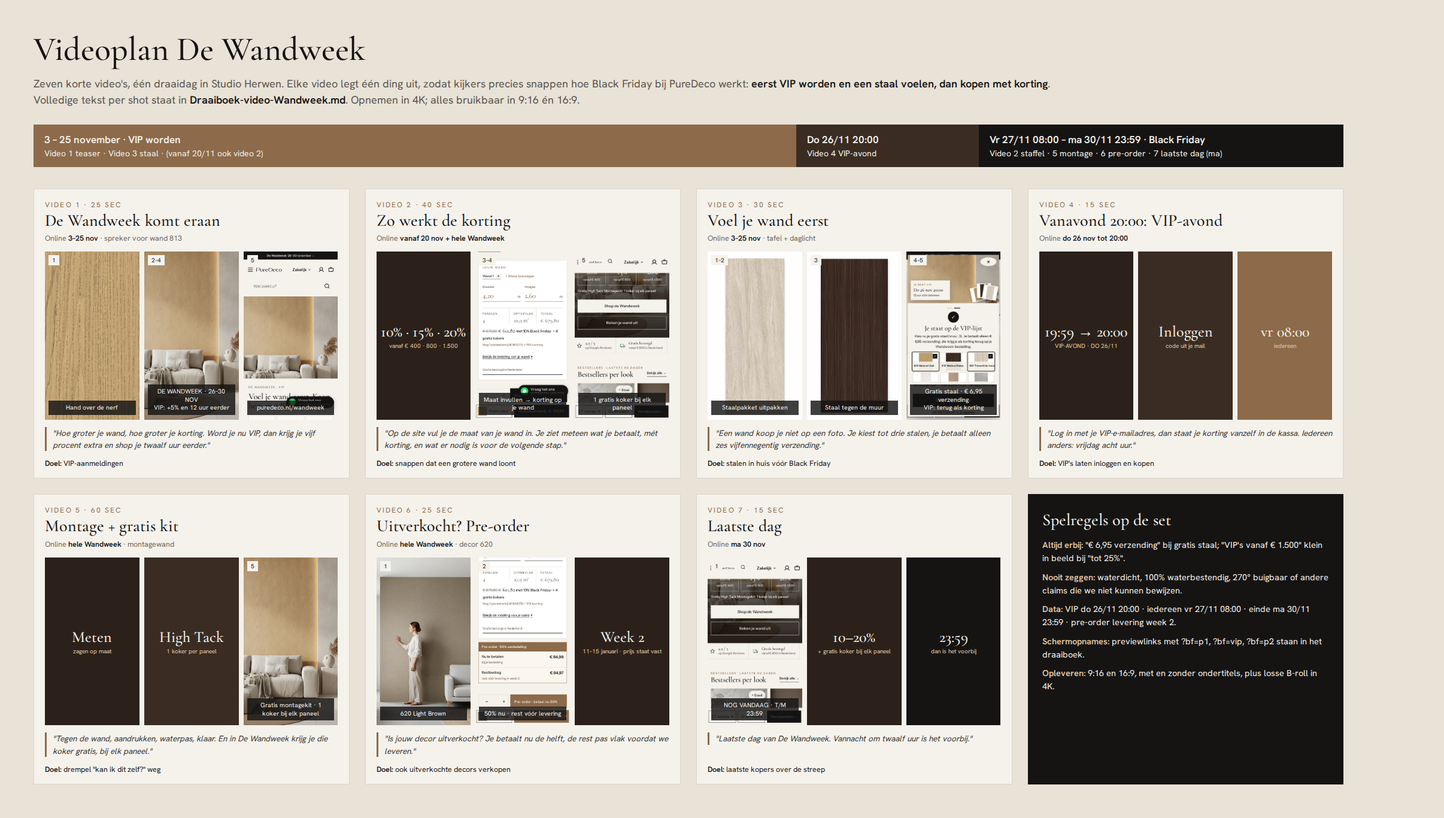
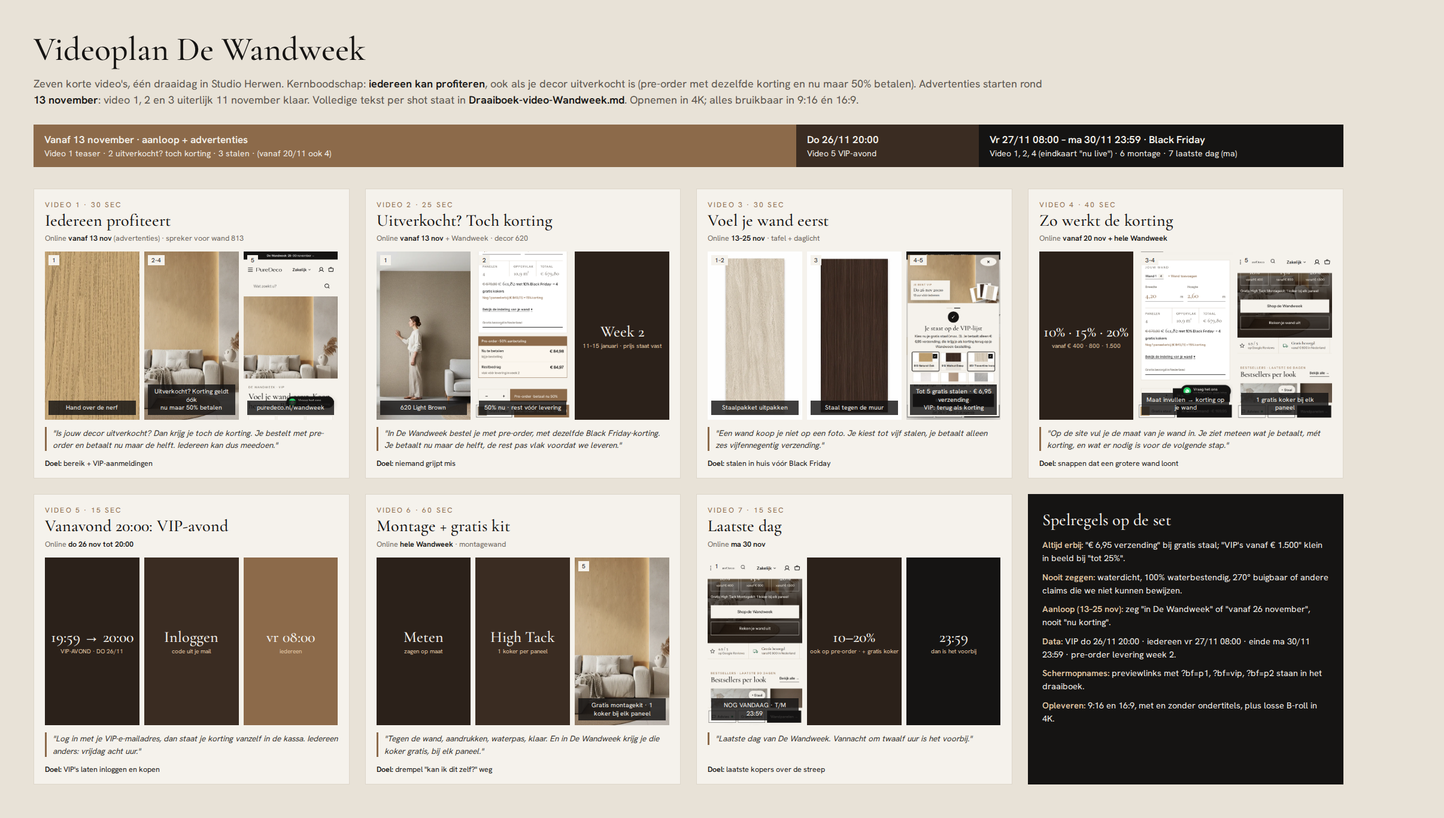
Pop-up: tot 5 stalen; videoplan: pre-order-boodschap in de aanloop, advertenties vanaf 13 november
Claude-Session: https://claude.ai/code/session_01Tr9HDAqx5rbsuHBhnEqEEG

diff --git a/docs/ontwerp-puredeco-finish/black-friday/video/video-artboard.html b/docs/ontwerp-puredeco-finish/black-friday/video/video-artboard.html
@@ -29,26 +29,44 @@ h1{font-family:'Cormorant Garamond',serif;font-weight:500;font-size:56px}
 .rules b{color:#E3C9A6}
 </style></head><body>
 <h1>Videoplan De Wandweek</h1>
-<p class="lead">Zeven korte video's, één draaidag in Studio Herwen. Elke video legt één ding uit, zodat kijkers precies snappen hoe Black Friday bij PureDeco werkt: <b>eerst VIP worden en een staal voelen, dan kopen met korting</b>. Volledige tekst per shot staat in <b>Draaiboek-video-Wandweek.md</b>. Opnemen in 4K; alles bruikbaar in 9:16 én 16:9.</p>
+<p class="lead">Zeven korte video's, één draaidag in Studio Herwen. Kernboodschap: <b>iedereen kan profiteren</b>, ook als je decor uitverkocht is (pre-order met dezelfde korting en nu maar 50% betalen). Advertenties starten rond <b>13 november</b>: video 1, 2 en 3 uiterlijk 11 november klaar. Volledige tekst per shot staat in <b>Draaiboek-video-Wandweek.md</b>. Opnemen in 4K; alles bruikbaar in 9:16 én 16:9.</p>
 
 <div class="tl">
-  <div class="t1"><b>3 – 25 november · VIP worden</b>Video 1 teaser · Video 3 staal · (vanaf 20/11 ook video 2)</div>
-  <div class="t2"><b>Do 26/11 20:00</b>Video 4 VIP-avond</div>
-  <div class="t3"><b>Vr 27/11 08:00 – ma 30/11 23:59 · Black Friday</b>Video 2 staffel · 5 montage · 6 pre-order · 7 laatste dag (ma)</div>
+  <div class="t1"><b>Vanaf 13 november · aanloop + advertenties</b>Video 1 teaser · 2 uitverkocht? toch korting · 3 stalen · (vanaf 20/11 ook 4)</div>
+  <div class="t2"><b>Do 26/11 20:00</b>Video 5 VIP-avond</div>
+  <div class="t3"><b>Vr 27/11 08:00 – ma 30/11 23:59 · Black Friday</b>Video 1, 2, 4 (eindkaart "nu live") · 6 montage · 7 laatste dag (ma)</div>
 </div>
 
 <div class="grid">
 
-<div class="card"><p class="num">Video 1 · 25 sec</p><p class="ttl">De Wandweek komt eraan</p><p class="meta">Online <b>3–25 nov</b> · spreker voor wand 813</p>
+<div class="card"><p class="num">Video 1 · 30 sec</p><p class="ttl">Iedereen profiteert</p><p class="meta">Online <b>vanaf 13 nov</b> (advertenties) · spreker voor wand 813</p>
 <div class="frames">
 <div class="fr" style="background-image:url('https://cdn.shopify.com/s/files/1/0940/4075/2394/files/bamboepanelen-hout-813-natural-oak-detail.jpg?v=1793440327&width=500')"><span class="n">1</span><span class="ov">Hand over de nerf</span></div>
-<div class="fr" style="background-image:url('https://cdn.shopify.com/s/files/1/0940/4075/2394/files/generated_2Fshopify_3Af9yvx9-zm.myshopify.com_2F1793565871079_0.png?v=1793565889&width=500')"><span class="n">2–4</span><span class="ov">DE WANDWEEK · 26–30 NOV<br>VIP: +5% en 12 uur eerder</span></div>
+<div class="fr" style="background-image:url('https://cdn.shopify.com/s/files/1/0940/4075/2394/files/generated_2Fshopify_3Af9yvx9-zm.myshopify.com_2F1793565871079_0.png?v=1793565889&width=500')"><span class="n">2–4</span><span class="ov">Uitverkocht? Korting geldt óók<br>nu maar 50% betalen</span></div>
 <div class="fr" style="background-image:url('vip-m-p1.png');background-position:top"><span class="n">5</span><span class="ov">puredeco.nl/wandweek</span></div>
 </div>
-<p class="say">"Hoe groter je wand, hoe groter je korting. Word je nu VIP, dan krijg je vijf procent extra en shop je twaalf uur eerder."</p>
-<p class="goal"><b>Doel:</b> VIP-aanmeldingen</p></div>
+<p class="say">"Is jouw decor uitverkocht? Dan krijg je toch de korting. Je bestelt met pre-order en betaalt nu maar de helft. Iedereen kan dus meedoen."</p>
+<p class="goal"><b>Doel:</b> bereik + VIP-aanmeldingen</p></div>
 
-<div class="card"><p class="num">Video 2 · 40 sec</p><p class="ttl">Zo werkt de korting</p><p class="meta">Online <b>vanaf 20 nov + hele Wandweek</b></p>
+<div class="card"><p class="num">Video 2 · 25 sec</p><p class="ttl">Uitverkocht? Toch korting</p><p class="meta">Online <b>vanaf 13 nov</b> + Wandweek · decor 620</p>
+<div class="frames">
+<div class="fr" style="background-image:url('https://cdn.shopify.com/s/files/1/0940/4075/2394/files/generated_2Fshopify_3Af9yvx9-zm.myshopify.com_2F1776693455240_0.png?v=1776775314&width=500')"><span class="n">1</span><span class="ov">620 Light Brown</span></div>
+<div class="fr" style="background-image:url('pdp-m-p2-pre.png');background-position:center 70%"><span class="n">2</span><span class="ov">50% nu · rest vóór levering</span></div>
+<div class="fr g"><b>Week 2</b><span>11–15 januari · prijs staat vast</span></div>
+</div>
+<p class="say">"In De Wandweek bestel je met pre-order, met dezelfde Black Friday-korting. Je betaalt nu maar de helft, de rest pas vlak voordat we leveren."</p>
+<p class="goal"><b>Doel:</b> niemand grijpt mis</p></div>
+
+<div class="card"><p class="num">Video 3 · 30 sec</p><p class="ttl">Voel je wand eerst</p><p class="meta">Online <b>13–25 nov</b> · tafel + daglicht</p>
+<div class="frames">
+<div class="fr" style="background-image:url('https://cdn.shopify.com/s/files/1/0940/4075/2394/files/wandpaneel-travertine-ivory-851.png?v=1790065039&width=500')"><span class="n">1–2</span><span class="ov">Staalpakket uitpakken</span></div>
+<div class="fr" style="background-image:url('https://cdn.shopify.com/s/files/1/0940/4075/2394/files/wandpaneel-812-walnut-deep-houtlook.jpg?v=1793107446&width=500')"><span class="n">3</span><span class="ov">Staal tegen de muur</span></div>
+<div class="fr" style="background-image:url('popup-mobiel-stap2.png');background-position:center 70%"><span class="n">4–5</span><span class="ov">Tot 5 gratis stalen · € 6,95 verzending<br>VIP: terug als korting</span></div>
+</div>
+<p class="say">"Een wand koop je niet op een foto. Je kiest tot vijf stalen, je betaalt alleen zes vijfennegentig verzending."</p>
+<p class="goal"><b>Doel:</b> stalen in huis vóór Black Friday</p></div>
+
+<div class="card"><p class="num">Video 4 · 40 sec</p><p class="ttl">Zo werkt de korting</p><p class="meta">Online <b>vanaf 20 nov + hele Wandweek</b></p>
 <div class="frames">
 <div class="fr g"><b>10% · 15% · 20%</b><span>vanaf € 400 · 800 · 1.500</span></div>
 <div class="fr" style="background-image:url('calculator-fase2.png');background-position:center 40%"><span class="n">3–4</span><span class="ov">Maat invullen → korting op je wand</span></div>
@@ -57,16 +75,7 @@ h1{font-family:'Cormorant Garamond',serif;font-weight:500;font-size:56px}
 <p class="say">"Op de site vul je de maat van je wand in. Je ziet meteen wat je betaalt, mét korting, en wat er nodig is voor de volgende stap."</p>
 <p class="goal"><b>Doel:</b> snappen dat een grotere wand loont</p></div>
 
-<div class="card"><p class="num">Video 3 · 30 sec</p><p class="ttl">Voel je wand eerst</p><p class="meta">Online <b>3–25 nov</b> · tafel + daglicht</p>
-<div class="frames">
-<div class="fr" style="background-image:url('https://cdn.shopify.com/s/files/1/0940/4075/2394/files/wandpaneel-travertine-ivory-851.png?v=1790065039&width=500')"><span class="n">1–2</span><span class="ov">Staalpakket uitpakken</span></div>
-<div class="fr" style="background-image:url('https://cdn.shopify.com/s/files/1/0940/4075/2394/files/wandpaneel-812-walnut-deep-houtlook.jpg?v=1793107446&width=500')"><span class="n">3</span><span class="ov">Staal tegen de muur</span></div>
-<div class="fr" style="background-image:url('popup-mobiel-stap2.png');background-position:center 70%"><span class="n">4–5</span><span class="ov">Gratis staal · € 6,95 verzending<br>VIP: terug als korting</span></div>
-</div>
-<p class="say">"Een wand koop je niet op een foto. Je kiest tot drie stalen, je betaalt alleen zes vijfennegentig verzending."</p>
-<p class="goal"><b>Doel:</b> stalen in huis vóór Black Friday</p></div>
-
-<div class="card"><p class="num">Video 4 · 15 sec</p><p class="ttl">Vanavond 20:00: VIP-avond</p><p class="meta">Online <b>do 26 nov tot 20:00</b></p>
+<div class="card"><p class="num">Video 5 · 15 sec</p><p class="ttl">Vanavond 20:00: VIP-avond</p><p class="meta">Online <b>do 26 nov tot 20:00</b></p>
 <div class="frames">
 <div class="fr g"><b>19:59 → 20:00</b><span>VIP-AVOND · DO 26/11</span></div>
 <div class="fr g" style="background:#3A2C22"><b>Inloggen</b><span>code uit je mail</span></div>
@@ -75,7 +84,7 @@ h1{font-family:'Cormorant Garamond',serif;font-weight:500;font-size:56px}
 <p class="say">"Log in met je VIP-e-mailadres, dan staat je korting vanzelf in de kassa. Iedereen anders: vrijdag acht uur."</p>
 <p class="goal"><b>Doel:</b> VIP's laten inloggen en kopen</p></div>
 
-<div class="card"><p class="num">Video 5 · 60 sec</p><p class="ttl">Montage + gratis kit</p><p class="meta">Online <b>hele Wandweek</b> · montagewand</p>
+<div class="card"><p class="num">Video 6 · 60 sec</p><p class="ttl">Montage + gratis kit</p><p class="meta">Online <b>hele Wandweek</b> · montagewand</p>
 <div class="frames">
 <div class="fr g"><b>Meten</b><span>zagen op maat</span></div>
 <div class="fr g" style="background:#3A2C22"><b>High Tack</b><span>1 koker per paneel</span></div>
@@ -84,19 +93,10 @@ h1{font-family:'Cormorant Garamond',serif;font-weight:500;font-size:56px}
 <p class="say">"Tegen de wand, aandrukken, waterpas, klaar. En in De Wandweek krijg je die koker gratis, bij elk paneel."</p>
 <p class="goal"><b>Doel:</b> drempel "kan ik dit zelf?" weg</p></div>
 
-<div class="card"><p class="num">Video 6 · 25 sec</p><p class="ttl">Uitverkocht? Pre-order</p><p class="meta">Online <b>hele Wandweek</b> · decor 620</p>
-<div class="frames">
-<div class="fr" style="background-image:url('https://cdn.shopify.com/s/files/1/0940/4075/2394/files/generated_2Fshopify_3Af9yvx9-zm.myshopify.com_2F1776693455240_0.png?v=1776775314&width=500')"><span class="n">1</span><span class="ov">620 Light Brown</span></div>
-<div class="fr" style="background-image:url('pdp-m-p2-pre.png');background-position:center 70%"><span class="n">2</span><span class="ov">50% nu · rest vóór levering</span></div>
-<div class="fr g"><b>Week 2</b><span>11–15 januari · prijs staat vast</span></div>
-</div>
-<p class="say">"Is jouw decor uitverkocht? Je betaalt nu de helft, de rest pas vlak voordat we leveren."</p>
-<p class="goal"><b>Doel:</b> ook uitverkochte decors verkopen</p></div>
-
 <div class="card"><p class="num">Video 7 · 15 sec</p><p class="ttl">Laatste dag</p><p class="meta">Online <b>ma 30 nov</b></p>
 <div class="frames">
 <div class="fr" style="background-image:url('home-m-p2.png');background-position:center 45%"><span class="n">1</span><span class="ov">NOG VANDAAG · T/M 23:59</span></div>
-<div class="fr g"><b>10–20%</b><span>+ gratis koker bij elk paneel</span></div>
+<div class="fr g"><b>10–20%</b><span>ook op pre-order · + gratis koker</span></div>
 <div class="fr g" style="background:#151413"><b>23:59</b><span>dan is het voorbij</span></div>
 </div>
 <p class="say">"Laatste dag van De Wandweek. Vannacht om twaalf uur is het voorbij."</p>
@@ -106,6 +106,7 @@ h1{font-family:'Cormorant Garamond',serif;font-weight:500;font-size:56px}
 <h3>Spelregels op de set</h3>
 <div><b>Altijd erbij:</b> "€ 6,95 verzending" bij gratis staal; "VIP's vanaf € 1.500" klein in beeld bij "tot 25%".</div>
 <div><b>Nooit zeggen:</b> waterdicht, 100% waterbestendig, 270° buigbaar of andere claims die we niet kunnen bewijzen.</div>
+<div><b>Aanloop (13–25 nov):</b> zeg "in De Wandweek" of "vanaf 26 november", nooit "nu korting".</div>
 <div><b>Data:</b> VIP do 26/11 20:00 · iedereen vr 27/11 08:00 · einde ma 30/11 23:59 · pre-order levering week 2.</div>
 <div><b>Schermopnames:</b> previewlinks met ?bf=p1, ?bf=vip, ?bf=p2 staan in het draaiboek.</div>
 <div><b>Opleveren:</b> 9:16 en 16:9, met en zonder ondertitels, plus losse B-roll in 4K.</div>

diff --git a/docs/ontwerp-puredeco-finish/black-friday/popup-artboard.html b/docs/ontwerp-puredeco-finish/black-friday/popup-artboard.html
@@ -139,7 +139,7 @@ hr{border:0;border-top:1px solid #d4ccbf;margin:40px 0 30px}
         <div class="dots"><i></i><i class="on"></i></div>
         <div class="ok">✓</div>
         <p class="h" style="font-size:34px">Je staat op de VIP-lijst</p>
-        <p class="sub">Kies nu je gratis staal (max. 3). Je betaalt alleen € 6,95 verzending; die krijg je als korting terug op je Wandweek-bestelling.</p>
+        <p class="sub">Kies nu je gratis stalen (max. 5). Je betaalt alleen € 6,95 verzending; die krijg je als korting terug op je Wandweek-bestelling.</p>
         <div class="sw">
           <div class="on" style="background-image:url('https://cdn.shopify.com/s/files/1/0940/4075/2394/files/bamboepanelen-hout-813-natural-oak-packshot.jpg?v=1793440327&width=300')"><span>813 Natural Oak</span></div>
           <div style="background-image:url('https://cdn.shopify.com/s/files/1/0940/4075/2394/files/wandpaneel-812-walnut-deep-houtlook.jpg?v=1793107446&width=300')"><span>812 Walnut Deep</span></div>

diff --git a/docs/ontwerp-puredeco-finish/black-friday/video/Draaiboek-video-Wandweek.md b/docs/ontwerp-puredeco-finish/black-friday/video/Draaiboek-video-Wandweek.md
@@ -1,15 +1,19 @@
 # Draaiboek video · De Wandweek (Black Friday 2026)
 
-Voor de videograaf, deze week. Doel: in korte video's laten zien **hoe Black Friday bij PureDeco werkt**, zodat kijkers het in één keer snappen en iets gaan doen: VIP worden, een staal bestellen of op 26/27 november kopen.
+Voor de videograaf, deze week. Doel: in korte video's laten zien **hoe Black Friday bij PureDeco werkt**, zodat kijkers het in één keer snappen en iets gaan doen: VIP worden, stalen bestellen of in de Wandweek kopen.
+
+**Kernboodschap: iedereen kan profiteren.** Ook als je decor uitverkocht is: dan bestel je met pre-order, krijg je dezelfde korting en betaal je nu maar 50%.
+
+**Advertenties starten rond 13 november.** De aanloopvideo's (1, 2 en 3) moeten uiterlijk **woensdag 11 november** klaar zijn, zodat ze op tijd zijn goedgekeurd door Meta en Google.
 
 ## De actie in één alinea (dit moet iedereen op de set weten)
 
-- **3 tot en met 25 november:** word VIP op puredeco.nl/pages/wandweek. Je kiest een gratis staal (je betaalt € 6,95 verzending; die krijg je als VIP terug als korting).
+- **Nu tot en met 25 november:** word VIP op puredeco.nl/pages/wandweek. Je kiest tot 5 gratis stalen (je betaalt € 6,95 verzending; die krijg je als VIP terug als korting).
 - **Donderdag 26 november 20:00:** VIP-avond. VIP's shoppen 12 uur eerder (inloggen met hun VIP-e-mailadres).
 - **Vrijdag 27 november 08:00 tot en met maandag 30 november 23:59:** Black Friday voor iedereen.
 - **Korting:** hoe groter je wand, hoe groter je korting. 10% vanaf € 400, 15% vanaf € 800, 20% vanaf € 1.500. VIP's krijgen 5% extra, dus tot 25%.
 - **Montagekit:** 1 gratis High Tack-koker bij elk paneel.
-- **Uitverkocht?** Dan pre-order met korting: je betaalt nu 50%, de rest vlak vóór levering. Levering week 2 (11–15 januari).
+- **Uitverkocht? Dan geldt de korting óók.** Je bestelt met pre-order, krijgt dezelfde Black Friday-korting en betaalt nu maar 50%. De rest betaal je vlak vóór levering. Levering week 2 (11–15 januari).
 - **Gratis bezorgd** in Nederland vanaf € 600.
 
 ## Wat we NIET zeggen
@@ -17,89 +21,117 @@ Voor de videograaf, deze week. Doel: in korte video's laten zien **hoe Black Fri
 - Geen "waterdicht", "100% waterbestendig", "270° buigbaar" of andere claims die we niet kunnen onderbouwen.
 - Geen "gratis staal" zonder dat de € 6,95 verzending erbij gezegd of getoond wordt.
 - Geen "tot 25%" zonder dat in beeld staat dat het voor VIP's vanaf € 1.500 is (kleine tekst onderin is genoeg).
+- Geen "nu al korting" in de aanloop: de korting geldt pas vanaf 26/27 november. Wel: "vanaf 26 november", "in De Wandweek".
 - Geen data of percentages die afwijken van hierboven.
+
+## Wanneer welke video online
+
+| Periode | Video's |
+|---|---|
+| **Vanaf 13 november (aanloop, advertenties)** | 1 Teaser · 2 Uitverkocht? Toch korting · 3 Voel je wand eerst |
+| **Vanaf 20 november** | 4 Zo werkt de korting (erbij) |
+| **Do 26 november** | 5 VIP-avond |
+| **Vr 27 t/m ma 30 november** | 1, 2, 4 (aangepaste eindkaart: "nu live") · 6 Montage + gratis kit |
+| **Ma 30 november** | 7 Laatste dag |
 
 ## Formaten
 
-- Opnemen in **4K, 25 fps**. Alles bruikbaar maken in **9:16** (Reels, TikTok, Stories) én **16:9** (YouTube, website). Kader daarom ruim: belangrijke dingen in het midden.
+- Opnemen in **4K, 25 fps**. Alles bruikbaar maken in **9:16** (Reels, TikTok, Stories) én **16:9** (YouTube, website), plus **4:5** voor Meta-feedadvertenties. Kader ruim: belangrijke dingen in het midden.
 - Geluid: dasspeldmicrofoon voor de spreker, plus losse sfeergeluiden (paneel neerleggen, koker openklikken).
 - Ondertiteling bij elke video (de meeste mensen kijken zonder geluid).
+- Advertentievideo's: **de boodschap in de eerste 3 seconden** (eerste shot met tekst in beeld).
 
 ## Locatie en planning (één draaidag)
 
 | Tijd | Waar | Wat |
 |---|---|---|
 | 09:00 | Studio Herwen | Opbouw, licht. Wand 813 Natural Oak als hoofdbeeld (veel voorraad). |
-| 09:30 | Studio, wand 813 | Video 1, 2 en 7 (spreker voor de wand) |
-| 11:00 | Studio, tafel | Video 3: stalen uitpakken, close-ups |
-| 12:00 | Pauze | |
-| 12:30 | Studio, montagewand | Video 5: kit en montage in 60 seconden |
-| 14:00 | Studio, bureau | Video 4 en 6: telefoon met de site (schermopnames) |
-| 15:00 | Overal | B-roll-lijst afwerken |
+| 09:30 | Studio, wand 813 | Video 1, 4 en 7 (spreker voor de wand) |
+| 10:45 | Studio, wand 620 Light Brown (nu op pre-order) | Video 2 (pre-order) |
+| 11:30 | Studio, tafel + raam | Video 3: stalen uitpakken, close-ups in daglicht |
+| 12:30 | Pauze | |
+| 13:00 | Studio, montagewand | Video 6: kit en montage in 60 seconden |
+| 14:30 | Studio, bureau | Video 5 + schermopnames voor alle video's |
+| 15:30 | Overal | B-roll-lijst afwerken |
 
 ## Schermopnames van de site
 
 Film de telefoon met de echte site, of neem het scherm op. Zolang het nieuwe thema nog niet live staat, gebruik je deze previewlinks (ze tonen precies hoe de site er in elke fase uitziet):
 
-- Fase 1 (VIP worden): `https://puredeco.nl/?preview_theme_id=196045603082&bf=p1`
+- Aanloop (VIP worden): `https://puredeco.nl/?preview_theme_id=196045603082&bf=p1`
 - VIP-avond: `https://puredeco.nl/?preview_theme_id=196045603082&bf=vip`
 - Black Friday: `https://puredeco.nl/?preview_theme_id=196045603082&bf=p2`
 - Productpagina met calculator: `https://puredeco.nl/products/813-hout-natural-oak?preview_theme_id=196045603082&bf=p2`
+- Pre-order met 50% aanbetaling: `https://puredeco.nl/products/620-japanse-stof-japaneses-style-brown?preview_theme_id=196045603082&bf=p2`
 - VIP-pagina: `https://puredeco.nl/pages/wandweek?preview_theme_id=196045603082&bf=p1`
 
 Tip: haal de preview-balk onderin weg voor de opname, of snij hem weg in de montage.
 
 ---
 
-## Video 1 · "De Wandweek komt eraan" (teaser, 25 sec)
+## Video 1 · "Iedereen profiteert" (teaser, 30 sec)
 
-**Wanneer online:** 3 november t/m 25 november. **Doel:** VIP-aanmeldingen.
-
-| # | Beeld | Gesproken tekst | Tekst in beeld |
-|---|---|---|---|
-| 1 | Close-up hand over de nerf van 813 Natural Oak, licht van opzij | (geen, geluid van hand over paneel) | |
-| 2 | Spreker voor de wand, medium shot | "Black Friday bij PureDeco heet dit jaar De Wandweek." | DE WANDWEEK · 26–30 NOV |
-| 3 | Spreker | "Hoe groter je wand, hoe groter je korting. Tot twintig procent." | 10% · 15% · 20% |
-| 4 | Spreker, iets dichter | "En word je nu VIP, dan krijg je vijf procent extra en shop je twaalf uur eerder." | VIP: +5% en 12 uur eerder |
-| 5 | Telefoon: VIP-pagina, vinger tikt op "Zet me op de VIP-lijst" | "Aanmelden is gratis. Link staat hieronder." | puredeco.nl/wandweek · tot 25% voor VIP's vanaf € 1.500 |
-
-## Video 2 · "Zo werkt de korting" (uitleg staffel, 40 sec)
-
-**Wanneer online:** vanaf 20 november, en de hele Wandweek. **Doel:** snappen waarom een grotere wand loont.
+**Online:** vanaf 13 november (advertenties). **Doel:** VIP-aanmeldingen en bereik.
 
 | # | Beeld | Gesproken tekst | Tekst in beeld |
 |---|---|---|---|
-| 1 | Spreker voor de wand | "Bij De Wandweek geldt: hoe groter je wand, hoe groter je korting." | |
-| 2 | Graphic met drie blokken (wordt in montage gemaakt) | "Vanaf vierhonderd euro tien procent. Vanaf achthonderd vijftien. Vanaf vijftienhonderd twintig procent." | 10% vanaf € 400 · 15% vanaf € 800 · 20% vanaf € 1.500 |
-| 3 | Telefoon: productpagina 813, duim vult 4,20 × 2,60 m in | "Op de site vul je de maat van je wand in. Je ziet meteen wat je betaalt, mét korting." | |
-| 4 | Close-up calculator: "€ 679,80 → € 611,82 met 10%" en "Nog 1 paneel erbij = 15% korting" | "En je ziet wat er nodig is voor de volgende stap." | |
-| 5 | Spreker, glimlach | "Plus een gratis montagekoker bij elk paneel. Tot en met maandag dertig november." | 1 gratis koker bij elk paneel · t/m ma 30/11 23:59 |
+| 1 | Close-up hand over de nerf van 813 Natural Oak, licht van opzij | "Black Friday bij PureDeco heet dit jaar De Wandweek." | DE WANDWEEK · 26–30 NOVEMBER |
+| 2 | Spreker voor de wand, medium shot | "Hoe groter je wand, hoe groter je korting. Tot twintig procent." | 10% · 15% · 20% |
+| 3 | Spreker, plus kort beeld van een High Tack-koker | "En bij elk paneel een gratis montagekoker." | + gratis koker bij elk paneel |
+| 4 | Spreker, dichterbij, serieuze toon | "Is jouw decor uitverkocht? Dan krijg je toch de korting. Je bestelt met pre-order en betaalt nu maar de helft." | Uitverkocht? Korting geldt óók · nu maar 50% betalen |
+| 5 | Spreker, glimlach | "Iedereen kan dus meedoen. En word je nu VIP, dan krijg je vijf procent extra en shop je twaalf uur eerder." | VIP: +5% en 12 uur eerder |
+| 6 | Telefoon: VIP-pagina, vinger tikt op "Zet me op de VIP-lijst" | "Aanmelden is gratis. Link staat hieronder." | puredeco.nl/wandweek · tot 25% voor VIP's vanaf € 1.500 |
+
+## Video 2 · "Uitverkocht? Toch Black Friday-korting" (pre-order, 25 sec)
+
+**Online:** vanaf 13 november (advertenties) en de hele Wandweek. **Doel:** laten zien dat niemand misgrijpt, ook niet bij een uitverkocht decor.
+
+| # | Beeld | Gesproken tekst | Tekst in beeld |
+|---|---|---|---|
+| 1 | Spreker voor wand 620 Light Brown (dit decor staat nu op pre-order) | "Is het decor dat jij wilt uitverkocht? Geen probleem." | Uitverkocht? Geen probleem. |
+| 2 | Telefoon: productpagina 620 met "Pre-order · 50% aanbetaling" | "In De Wandweek bestel je met pre-order, met dezelfde Black Friday-korting." | Zelfde korting op pre-order |
+| 3 | Close-up van het blok "Nu te betalen / Restbedrag" | "Je betaalt nu maar de helft. De rest pas vlak voordat we leveren." | Nu 50% · rest vóór levering |
+| 4 | Spreker | "Levering in week twee van januari, en je prijs staat vast. Zo kan iedereen meedoen." | Levering week 2 (11–15 januari) |
+
+**Let op in de aanloop (13–25 nov):** zeg "in De Wandweek" of "vanaf 26 november", niet "nu korting". Vanaf 27 november mag een eindkaart "Nu live" erbij.
 
 ## Video 3 · "Voel je wand eerst" (staal, 30 sec)
 
-**Wanneer online:** 3 t/m 25 november. **Doel:** stalen bestellen (de beste voorspeller van een wandbestelling).
+**Online:** vanaf 13 november t/m 25 november. **Doel:** stalen bestellen (de beste voorspeller van een wandbestelling).
 
 | # | Beeld | Gesproken tekst | Tekst in beeld |
 |---|---|---|---|
-| 1 | Brievenbus/deurmat: staalpakket valt op de mat | | |
-| 2 | Handen openen het pakket, drie stalen (813, 851, 812) op tafel | "Een wand koop je niet op een foto. Daarom sturen we je eerst een staal." | |
+| 1 | Brievenbus/deurmat: staalpakket valt op de mat | | Voel je wand eerst |
+| 2 | Handen openen het pakket, vijf stalen op tafel (813, 851, 812, 821, 830) | "Een wand koop je niet op een foto. Daarom sturen we je eerst stalen." | |
 | 3 | Close-ups: hand over de structuur, staal tegen de muur gehouden bij daglicht | "Je voelt de structuur en ziet de kleur in je eigen licht." | |
-| 4 | Telefoon: pop-up stap 2, drie stalen aangetikt | "Je kiest tot drie stalen. Je betaalt alleen zes vijfennegentig verzending." | Gratis staal · € 6,95 verzending |
+| 4 | Telefoon: pop-up stap 2, stalen aangetikt | "Je kiest tot vijf stalen. Je betaalt alleen zes vijfennegentig verzending." | Tot 5 gratis stalen · € 6,95 verzending |
 | 5 | Spreker | "Ben je VIP? Dan krijg je die zes vijfennegentig terug als korting in De Wandweek." | Als VIP: € 6,95 terug als korting |
 
-## Video 4 · "Vanavond 20:00: VIP-avond" (15 sec)
+## Video 4 · "Zo werkt de korting" (uitleg staffel, 40 sec)
 
-**Wanneer online:** donderdag 26 november, ochtend tot 20:00. **Doel:** VIP's laten inloggen en kopen.
+**Online:** vanaf 20 november en de hele Wandweek. **Doel:** snappen waarom een grotere wand loont.
 
 | # | Beeld | Gesproken tekst | Tekst in beeld |
 |---|---|---|---|
-| 1 | Klok of telefoon op 19:59 → 20:00, wand 813 op de achtergrond | "Vanavond om acht uur gaat De Wandweek open. Alleen voor VIP's." | VIP-AVOND · DO 26/11 20:00 |
+| 1 | Spreker voor de wand | "In De Wandweek geldt: hoe groter je wand, hoe groter je korting." | |
+| 2 | Graphic met drie blokken (wordt in montage gemaakt) | "Vanaf vierhonderd euro tien procent. Vanaf achthonderd vijftien. Vanaf vijftienhonderd twintig procent." | 10% vanaf € 400 · 15% vanaf € 800 · 20% vanaf € 1.500 |
+| 3 | Telefoon: productpagina 813, duim vult 4,20 × 2,60 m in | "Op de site vul je de maat van je wand in. Je ziet meteen wat je betaalt, mét korting." | |
+| 4 | Close-up calculator: "€ 679,80 → € 611,82 met 10%" en "Nog 1 paneel erbij = 15% korting" | "En je ziet wat er nodig is voor de volgende stap." | |
+| 5 | Spreker | "Ook op pre-orders, en ook met een gratis koker bij elk paneel." | Ook op pre-order · gratis koker bij elk paneel |
+
+## Video 5 · "Vanavond 20:00: VIP-avond" (15 sec)
+
+**Online:** donderdag 26 november, ochtend tot 20:00. **Doel:** VIP's laten inloggen en kopen.
+
+| # | Beeld | Gesproken tekst | Tekst in beeld |
+|---|---|---|---|
+| 1 | Klok of telefoon op 19:59 → 20:00, wand 813 op de achtergrond | "Vanavond om acht uur gaat De Wandweek open. Eerst voor VIP's." | VIP-AVOND · DO 26/11 20:00 |
 | 2 | Telefoon: kassa → "Inloggen" → code uit de mail | "Log in met je VIP-e-mailadres, dan staat je korting vanzelf in de kassa." | Log in met je VIP-e-mailadres |
-| 3 | Spreker | "Iedereen anders: vrijdag acht uur." | Iedereen: vr 27/11 08:00 |
+| 3 | Spreker | "Iedereen anders: morgen om acht uur." | Iedereen: vr 27/11 08:00 |
 
-## Video 5 · "Montage in 60 seconden + gratis kit" (60 sec)
+## Video 6 · "Montage in 60 seconden + gratis kit" (60 sec)
 
-**Wanneer online:** de hele Wandweek. **Doel:** drempel "kan ik dit zelf?" weghalen, montagekit laten zien.
+**Online:** de hele Wandweek (eventueel ook in de aanloop). **Doel:** drempel "kan ik dit zelf?" weghalen, montagekit laten zien.
 
 | # | Beeld | Gesproken tekst | Tekst in beeld |
 |---|---|---|---|
@@ -110,42 +142,35 @@ Tip: haal de preview-balk onderin weg voor de opname, of snij hem weg in de mont
 | 5 | Afgewerkte wand, rustige pan | "En in De Wandweek krijg je die koker gratis, bij elk paneel." | Gratis montagekit · 1 koker bij elk paneel |
 | 6 | Link naar montagehandleiding | | Montagehandleiding: puredeco.nl/pages/installatie |
 
-## Video 6 · "Uitverkocht? Pre-order met korting" (25 sec)
-
-**Wanneer online:** de hele Wandweek. **Doel:** ook bij uitverkochte decors verkopen.
-
-| # | Beeld | Gesproken tekst | Tekst in beeld |
-|---|---|---|---|
-| 1 | Spreker voor een decor dat nu op pre-order staat (620 Light Brown) | "Is jouw decor uitverkocht? Dan bestel je hem toch met Black Friday-korting." | |
-| 2 | Telefoon: productpagina pre-order, blok "Nu te betalen / Restbedrag" | "Je betaalt nu de helft. De rest pas vlak voordat we leveren." | 50% nu · rest vóór levering |
-| 3 | Spreker | "Levering in week twee van januari, en je prijs staat vast." | Levering week 2 (11–15 januari) |
-
 ## Video 7 · "Laatste dag" (15 sec)
 
-**Wanneer online:** maandag 30 november. **Doel:** laatste kopers over de streep.
+**Online:** maandag 30 november. **Doel:** laatste kopers over de streep.
 
 | # | Beeld | Gesproken tekst | Tekst in beeld |
 |---|---|---|---|
 | 1 | Telefoon: hero met aftelklok | "Laatste dag van De Wandweek." | NOG VANDAAG · T/M 23:59 |
-| 2 | Spreker | "Tot twintig procent korting en een gratis koker bij elk paneel. Vannacht om twaalf uur is het voorbij." | 10–20% · gratis montagekit |
+| 2 | Spreker | "Tot twintig procent korting, ook op pre-order, en een gratis koker bij elk paneel. Vannacht om twaalf uur is het voorbij." | 10–20% · ook op pre-order · gratis koker |
 
 ---
 
 ## B-roll-lijst (vrij te gebruiken in alle video's)
 
-1. Close-ups van de nerf of structuur van 813, 812, 851, 821 en 691, met strijklicht van opzij.
+1. Close-ups van de nerf of structuur van 813, 812, 851, 821, 620 en 691, met strijklicht van opzij.
 2. Een paneel van 280 cm dat wordt rechtgezet (laat de lengte zien).
 3. De naad tussen twee naadloze panelen van 8 mm, extra dichtbij.
 4. Een paneel licht buigen tegen een ronde vorm, rustig en zonder overdrijven.
-5. Het staalpakket inpakken en uitpakken.
+5. Het staalpakket inpakken en uitpakken (vijf stalen).
 6. Een High Tack-koker die wordt opengeklikt (met geluid).
-7. Een klant of medewerker die met een staal tegen de muur loopt (daglicht).
+7. Iemand die met een staal tegen de muur loopt (daglicht).
 8. Studio Herwen totaalbeeld, met de wanden op ware grootte.
 9. Telefoon in de hand: scrollen door de collectie in Black Friday-stand.
 10. Een wand van 4,20 m in één beeld (laat de schaal zien).
+11. Telefoon: het pre-orderblok "Nu te betalen / Restbedrag" in beeld.
 
 ## Opleveren
 
-- Per video: 9:16 én 16:9, met en zonder ondertiteling, plus een versie zonder muziek.
+- **Uiterlijk 11 november:** video 1, 2 en 3 (voor de advertenties vanaf 13 november).
+- **Uiterlijk 19 november:** video 4, 5, 6 en 7.
+- Per video: 9:16, 4:5 en 16:9, met en zonder ondertiteling, plus een versie zonder muziek.
 - Losse B-roll-clips (ongemonteerd, 4K).
 - Bestandsnamen: `WW26_V1_teaser_9x16.mp4` enz.
